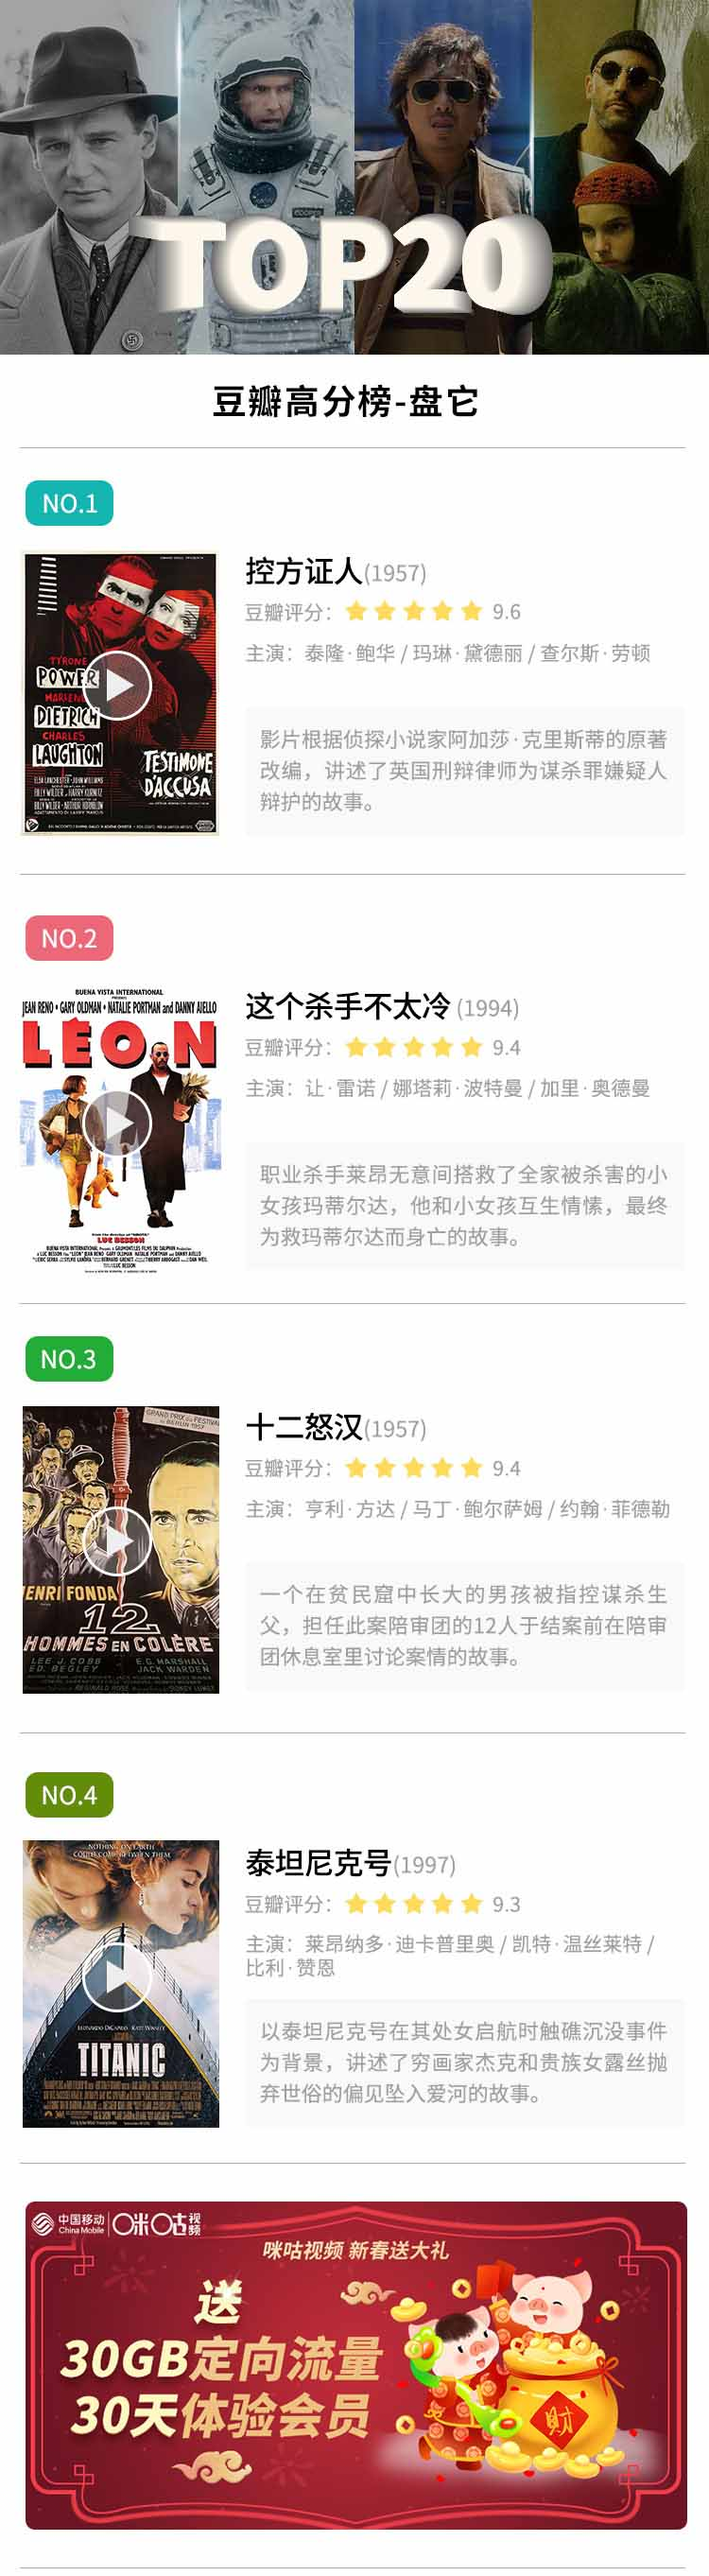
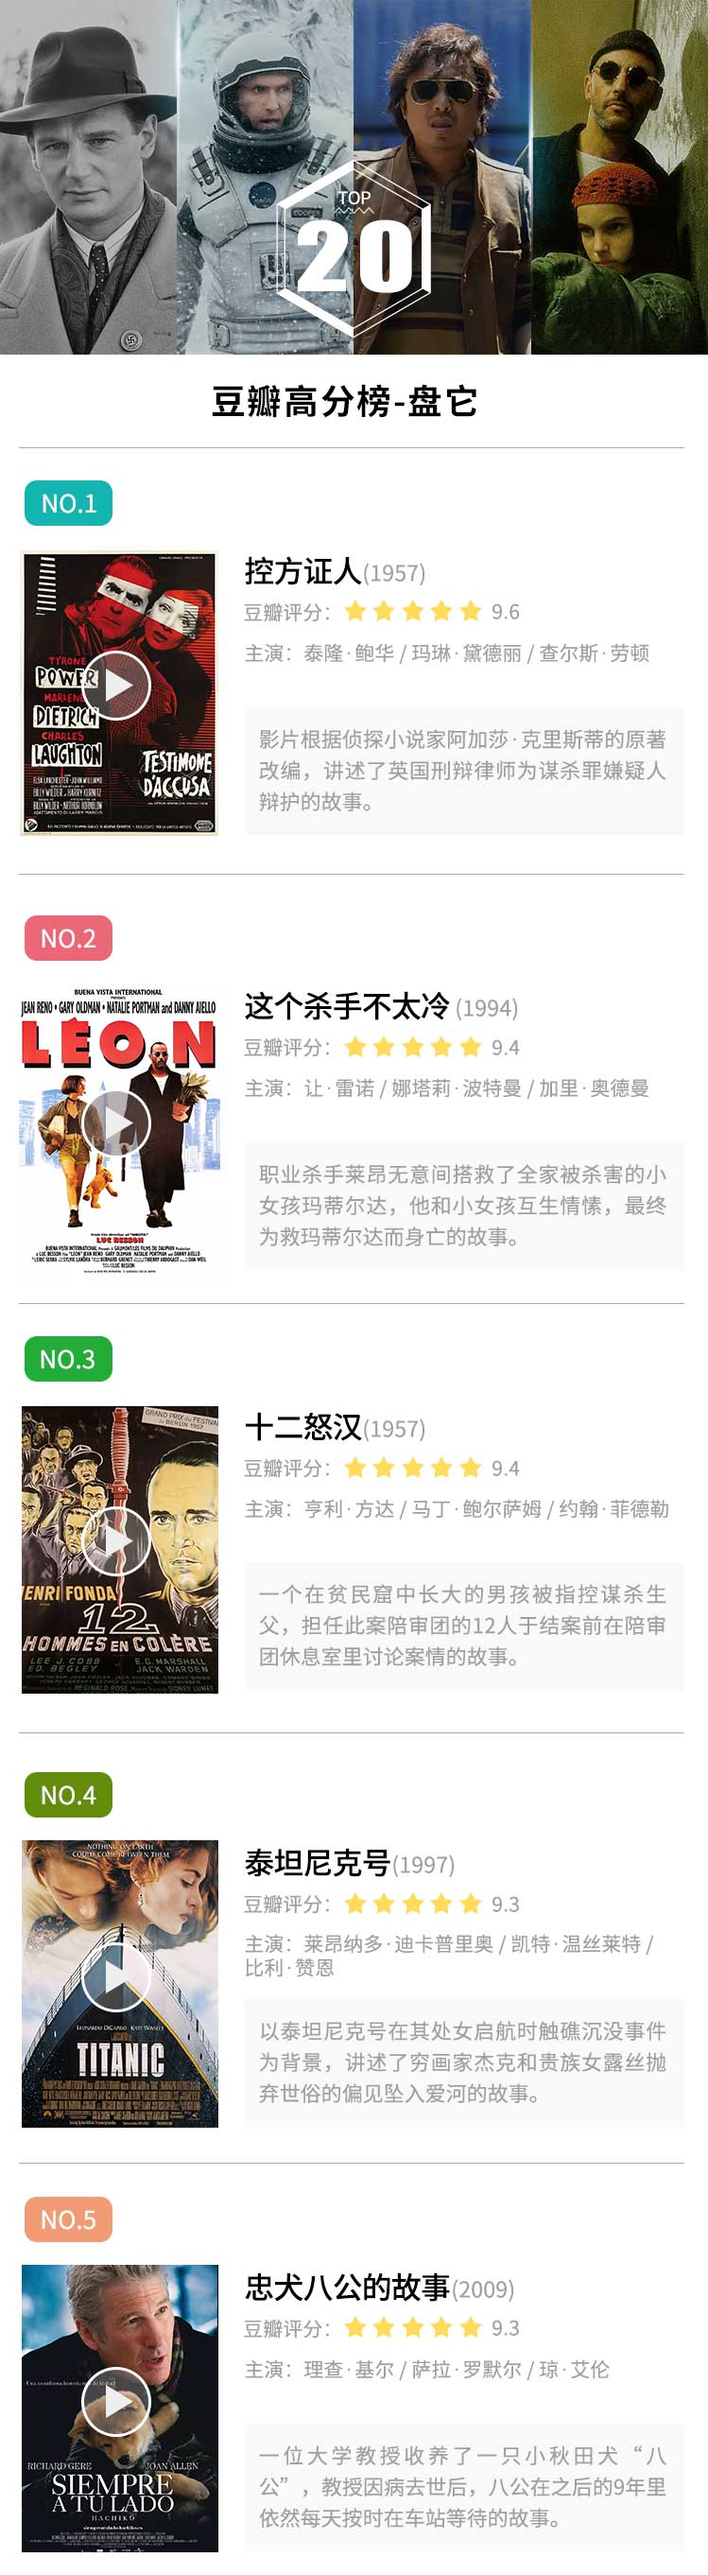
33

diff --git a/top1/js/index.js b/top1/js/index.js
@@ -18,8 +18,18 @@ $(function () {
 	for(var i=0;i<lj.length;i++){
 		if(i==0){
 			lj[i].style.top = 586+"px"
-		}else if(i==4){
-			lj[i].style.top = 527+451*i+"px"
+		}else if(i>=10&i<15){
+			lj[i].style.top = 586+453*i+"px"
+		}else if(i==15){
+			lj[i].style.top = 7432+"px"
+		}else if(i==16){
+			lj[i].style.top = 7940+"px"
+		}else if(i==17){
+			lj[i].style.top = 8450+"px"
+		}else if(i==18){
+			lj[i].style.top = 8970+"px"
+		}else if(i==19){
+			lj[i].style.top = 9493+"px"
 		}
 		else{
 			lj[i].style.top = 586+451*i+"px"
@@ -28,8 +38,8 @@ $(function () {
 	for(var i=0;i<lj2.length;i++){
 		if(i==0){
 			lj2[i].style.top = 586+"px"
-		}else if(i==5){
-			lj2[i].style.top = 527+451*i+"px"
+		}else if(i>=10){
+			lj2[i].style.top = 586+453*i+"px"
 		}else{
 			lj2[i].style.top = 586+451*i+"px"
 		}
@@ -63,54 +73,51 @@ redictSrcId(625948925)
 redictSrcId(651514424)
 	};
 	lj[4].onclick = function(){
-		window.location.href = "http://wap.js.10086.cn/hyl/CAC/actMGNewSpring/act1.do?isMigu=1&platform=PLATFORM&miguToken=SSOTOKEN&activityId=001&platform=PLATFORM&miguNeedLogin=1"
-	};
-	lj[5].onclick = function(){
 redictSrcId(649359392)
 	};
-	lj[6].onclick = function(){
+	lj[5].onclick = function(){
 redictSrcId(624311489)
 	};
-	lj[7].onclick = function(){
+	lj[6].onclick = function(){
 redictSrcId(651233367)
 	};
-	lj[8].onclick = function(){
+	lj[7].onclick = function(){
 redictSrcId(624310276)
 	};
-	lj[9].onclick = function(){
+	lj[8].onclick = function(){
 redictSrcId(621951749)
 	};
-	lj[10].onclick = function(){
+	lj[9].onclick = function(){
 redictSrcId(651293385)
 	};
-	lj[11].onclick = function(){
+	lj[10].onclick = function(){
 redictSrcId(651090877)
 	};
-	lj[12].onclick = function(){
+	lj[11].onclick = function(){
 redictSrcId(623953967)
 	};
-	lj[13].onclick = function(){
+	lj[12].onclick = function(){
 redictSrcId(608616397)
 	};
-	lj[14].onclick = function(){
+	lj[13].onclick = function(){
 redictSrcId(640123289)
 	};
-	lj[15].onclick = function(){
+	lj[14].onclick = function(){
 redictSrcId(624994837)
 	};
-	lj[16].onclick = function(){
+	lj[15].onclick = function(){
 redictSrcId(621951764)
 	};
-	lj[17].onclick = function(){
+	lj[16].onclick = function(){
 redictSrcId(623622602)
 	};
-	lj[18].onclick = function(){
+	lj[17].onclick = function(){
 redictSrcId(636526577)
 	};
-	lj[19].onclick = function(){
+	lj[18].onclick = function(){
 redictSrcId(649118258)
 	};
-	lj[20].onclick = function(){
+	lj[19].onclick = function(){
 redictSrcId(627102592)
 	};
 	//top20电视剧
@@ -130,51 +137,48 @@ redictSrcId(643289208)
 redictSrcId(648818073)
 	};
 	lj2[5].onclick = function(){
-		window.location.href = "http://wap.js.10086.cn/hyl/CAC/actMGNewSpring/act3.do?isMigu=1&platform=PLATFORM&miguToken=SSOTOKEN&activityId=001&platform=PLATFORMmiguNeedLogin=1"
-	};
-	lj2[6].onclick = function(){
 redictSrcId(627087228)
 	};
-	lj2[7].onclick = function(){
+	lj2[6].onclick = function(){
 redictSrcId(648278854)
 	};
-	lj2[8].onclick = function(){
+	lj2[7].onclick = function(){
 redictSrcId(651746049)
 	};
-	lj2[9].onclick = function(){
+	lj2[8].onclick = function(){
 redictSrcId(651914767)
 	};
-	lj2[10].onclick = function(){
+	lj2[9].onclick = function(){
 redictSrcId(629350172)
 	};
-	lj2[11].onclick = function(){
+	lj2[10].onclick = function(){
 redictSrcId(645887240)
 	};
-	lj2[12].onclick = function(){
+	lj2[11].onclick = function(){
 redictSrcId(629220336)
 	};
-	lj2[13].onclick = function(){
+	lj2[12].onclick = function(){
 redictSrcId(648398063)
 	};
-	lj2[14].onclick = function(){
+	lj2[13].onclick = function(){
 redictSrcId(617172261)
 	};
-	lj2[15].onclick = function(){
+	lj2[14].onclick = function(){
 redictSrcId(649996018)
 	};
-	lj2[16].onclick = function(){
+	lj2[15].onclick = function(){
 redictSrcId(629241094)
 	};
-	lj2[17].onclick = function(){
+	lj2[16].onclick = function(){
 redictSrcId(629119970)
 	};
-	lj2[18].onclick = function(){
+	lj2[17].onclick = function(){
 redictSrcId(628289649)
 	};
-	lj2[19].onclick = function(){
+	lj2[18].onclick = function(){
 redictSrcId(651263288)
 	};
-	lj2[20].onclick = function(){
+	lj2[19].onclick = function(){
 redictSrcId(652091176)
 	};
 	//返回顶部

diff --git a/top1/index.html b/top1/index.html
@@ -21,7 +21,7 @@
 				<div class="lianjie"></div>
 				<div class="lianjie"></div>
 				<div class="lianjie"></div>
-				<div class="lianjie spc"></div>
+
 				<div class="lianjie "></div>
 				<div class="lianjie"></div>
 				<div class="lianjie"></div>
@@ -49,7 +49,7 @@
 				<div class="lianjie2"></div>
 				<div class="lianjie2"></div>
 				<div class="lianjie2"></div>
-				<div class="lianjie2 spc"></div>
+
 				<div class="lianjie2"></div>
 				<div class="lianjie2"></div>
 				<div class="lianjie2"></div>
